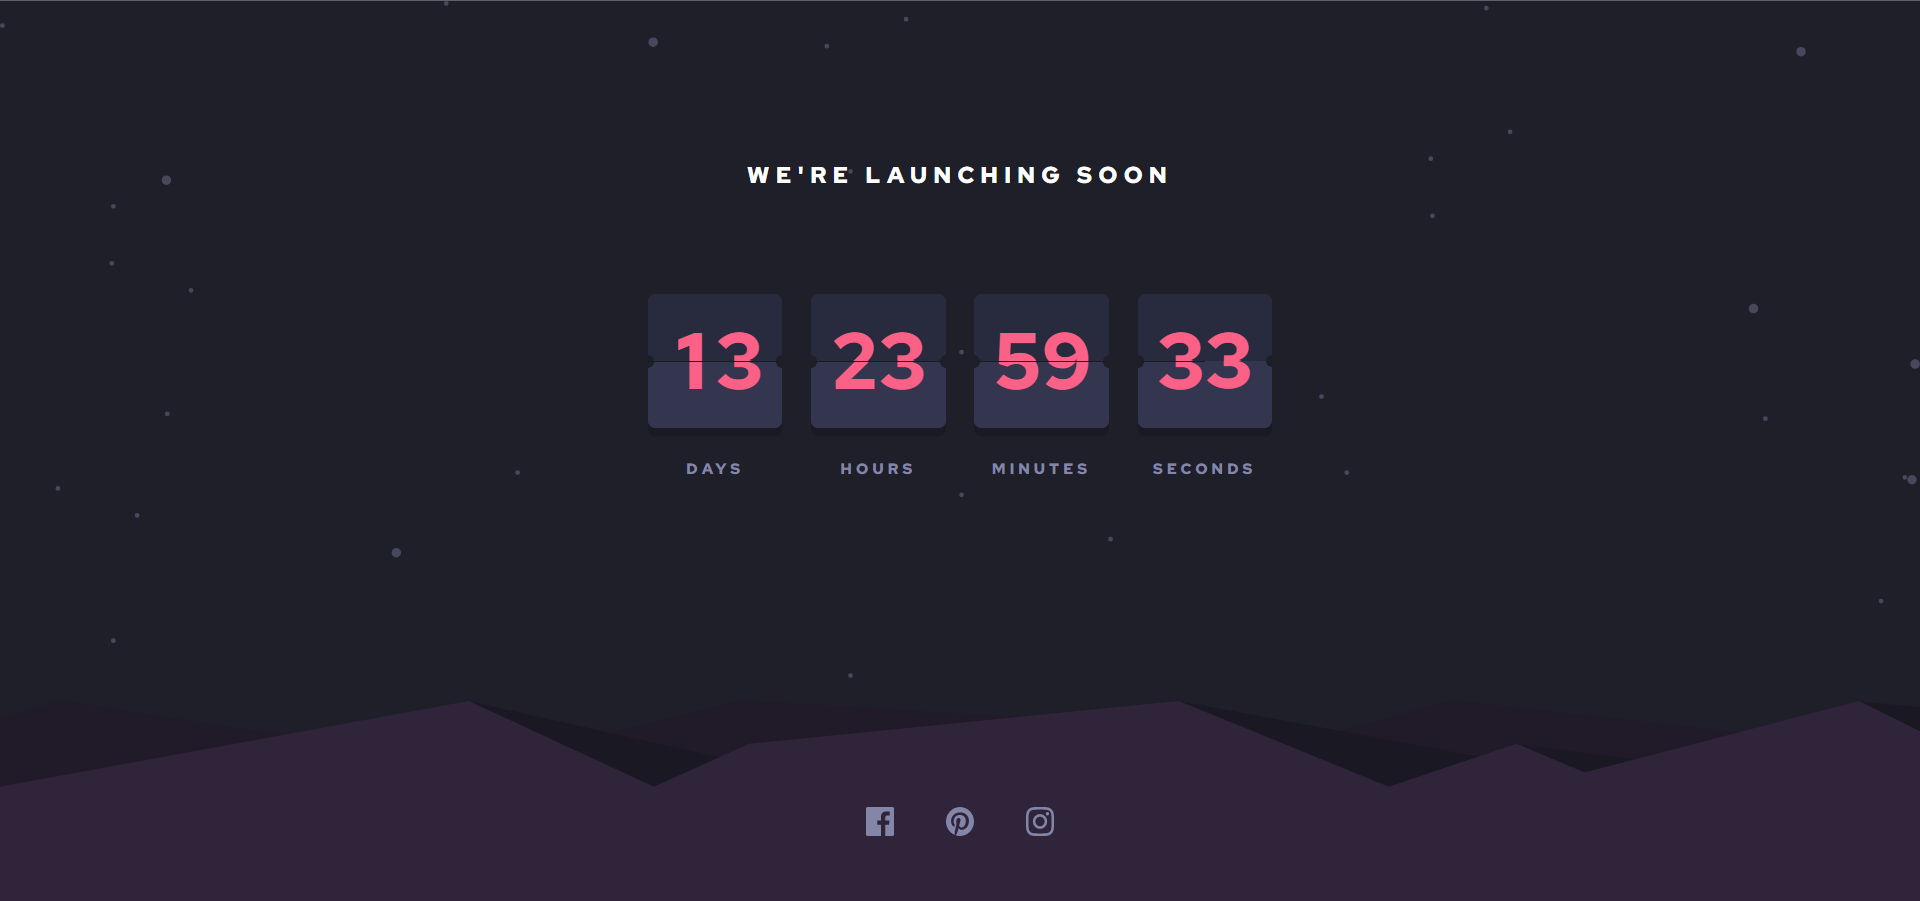
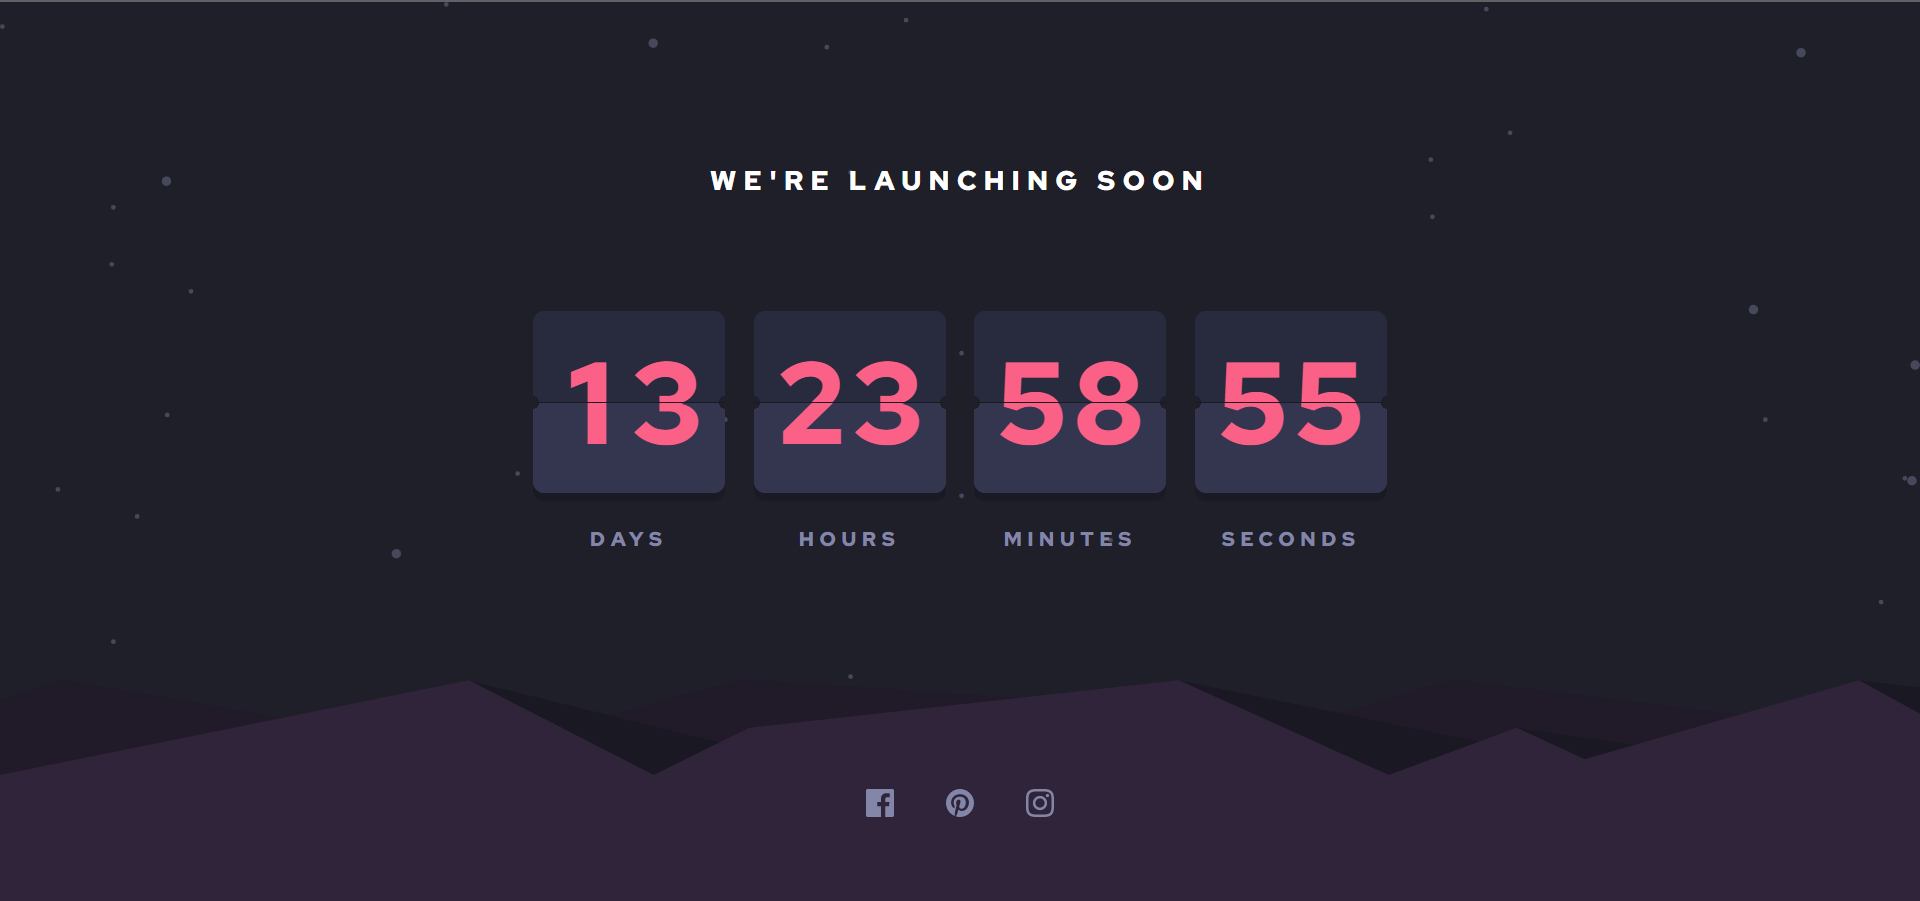
Adapt CSS according FrontentMentor design

diff --git a/style.css b/style.css
@@ -35,14 +35,8 @@ main {
 }
 
 h1 {
-  font-size: 1.7rem;
-}
-
-@media(max-width:710px) {
-  h1 {
-    font-size: 2rem;
-    text-align: center;
-  }
+  font-size: 2rem;
+  text-align: center;
 }
 
 h1,
@@ -62,7 +56,7 @@ h1,
 
 .hill {
   bottom: 0;
-  height: 22.5%;
+  height: 25%;
   width: 100%;
 }
 
@@ -91,7 +85,7 @@ h1,
 .countdown-container {
   display: flex;
   justify-content: center;
-  margin-top: 6em;
+  margin-top: 6.5em;
   gap: 1.5rem;
 }
 
@@ -107,8 +101,8 @@ h1,
 
 .cards {
   display: block;
-  font-size: 4rem;
-  height: 7rem;
+  font-size: 6rem;
+  height: 9.5rem;
 }
 
 @media(max-width:710px) {
@@ -127,7 +121,7 @@ h1,
 .card-element__bottom {
   text-align: center;
   height: 50%;
-  width: 3.5rem;
+  width: 5rem;
   overflow: hidden;
 }
 
@@ -155,7 +149,7 @@ h1,
 .card-element-flip__bottom {
   position: absolute;
   height: 50%;
-  width: 3.5rem;
+  width: 5rem;
   text-align: center;
   overflow: hidden;
 }
@@ -211,14 +205,14 @@ h1,
   .cards:nth-of-type(odd) .card-element__bottom,
   .cards:nth-of-type(odd) .card-element-flip__top,
   .cards:nth-of-type(odd) .card-element-flip__bottom {
-    padding-left: 0.7rem;
+    padding-left: 1rem;
   }
 
   .cards:nth-of-type(even) .card-element__top,
   .cards:nth-of-type(even) .card-element__bottom,
   .cards:nth-of-type(even) .card-element-flip__top,
   .cards:nth-of-type(even) .card-element-flip__bottom {
-    padding-right: 0.7rem;
+    padding-right: 1rem;
   }
 }
 
@@ -303,7 +297,7 @@ h1,
 }
 
 .text {
-  font-size: 1.1rem;
+  font-size: 1.5rem;
   margin-top: 20px;
   color: var(--grayish-blue);
   width: 100%;
@@ -318,7 +312,7 @@ h1,
 
 .socials {
   position: absolute;
-  bottom: 2rem;
+  bottom: 3rem;
 }
 
 .social-icon {

diff --git a/index.js b/index.js
@@ -1,5 +1,3 @@
-// TODO: update readme + remove unnecessary files
-
 const date = new Date();
 date.setDate(date.getDate() + 14);
 
